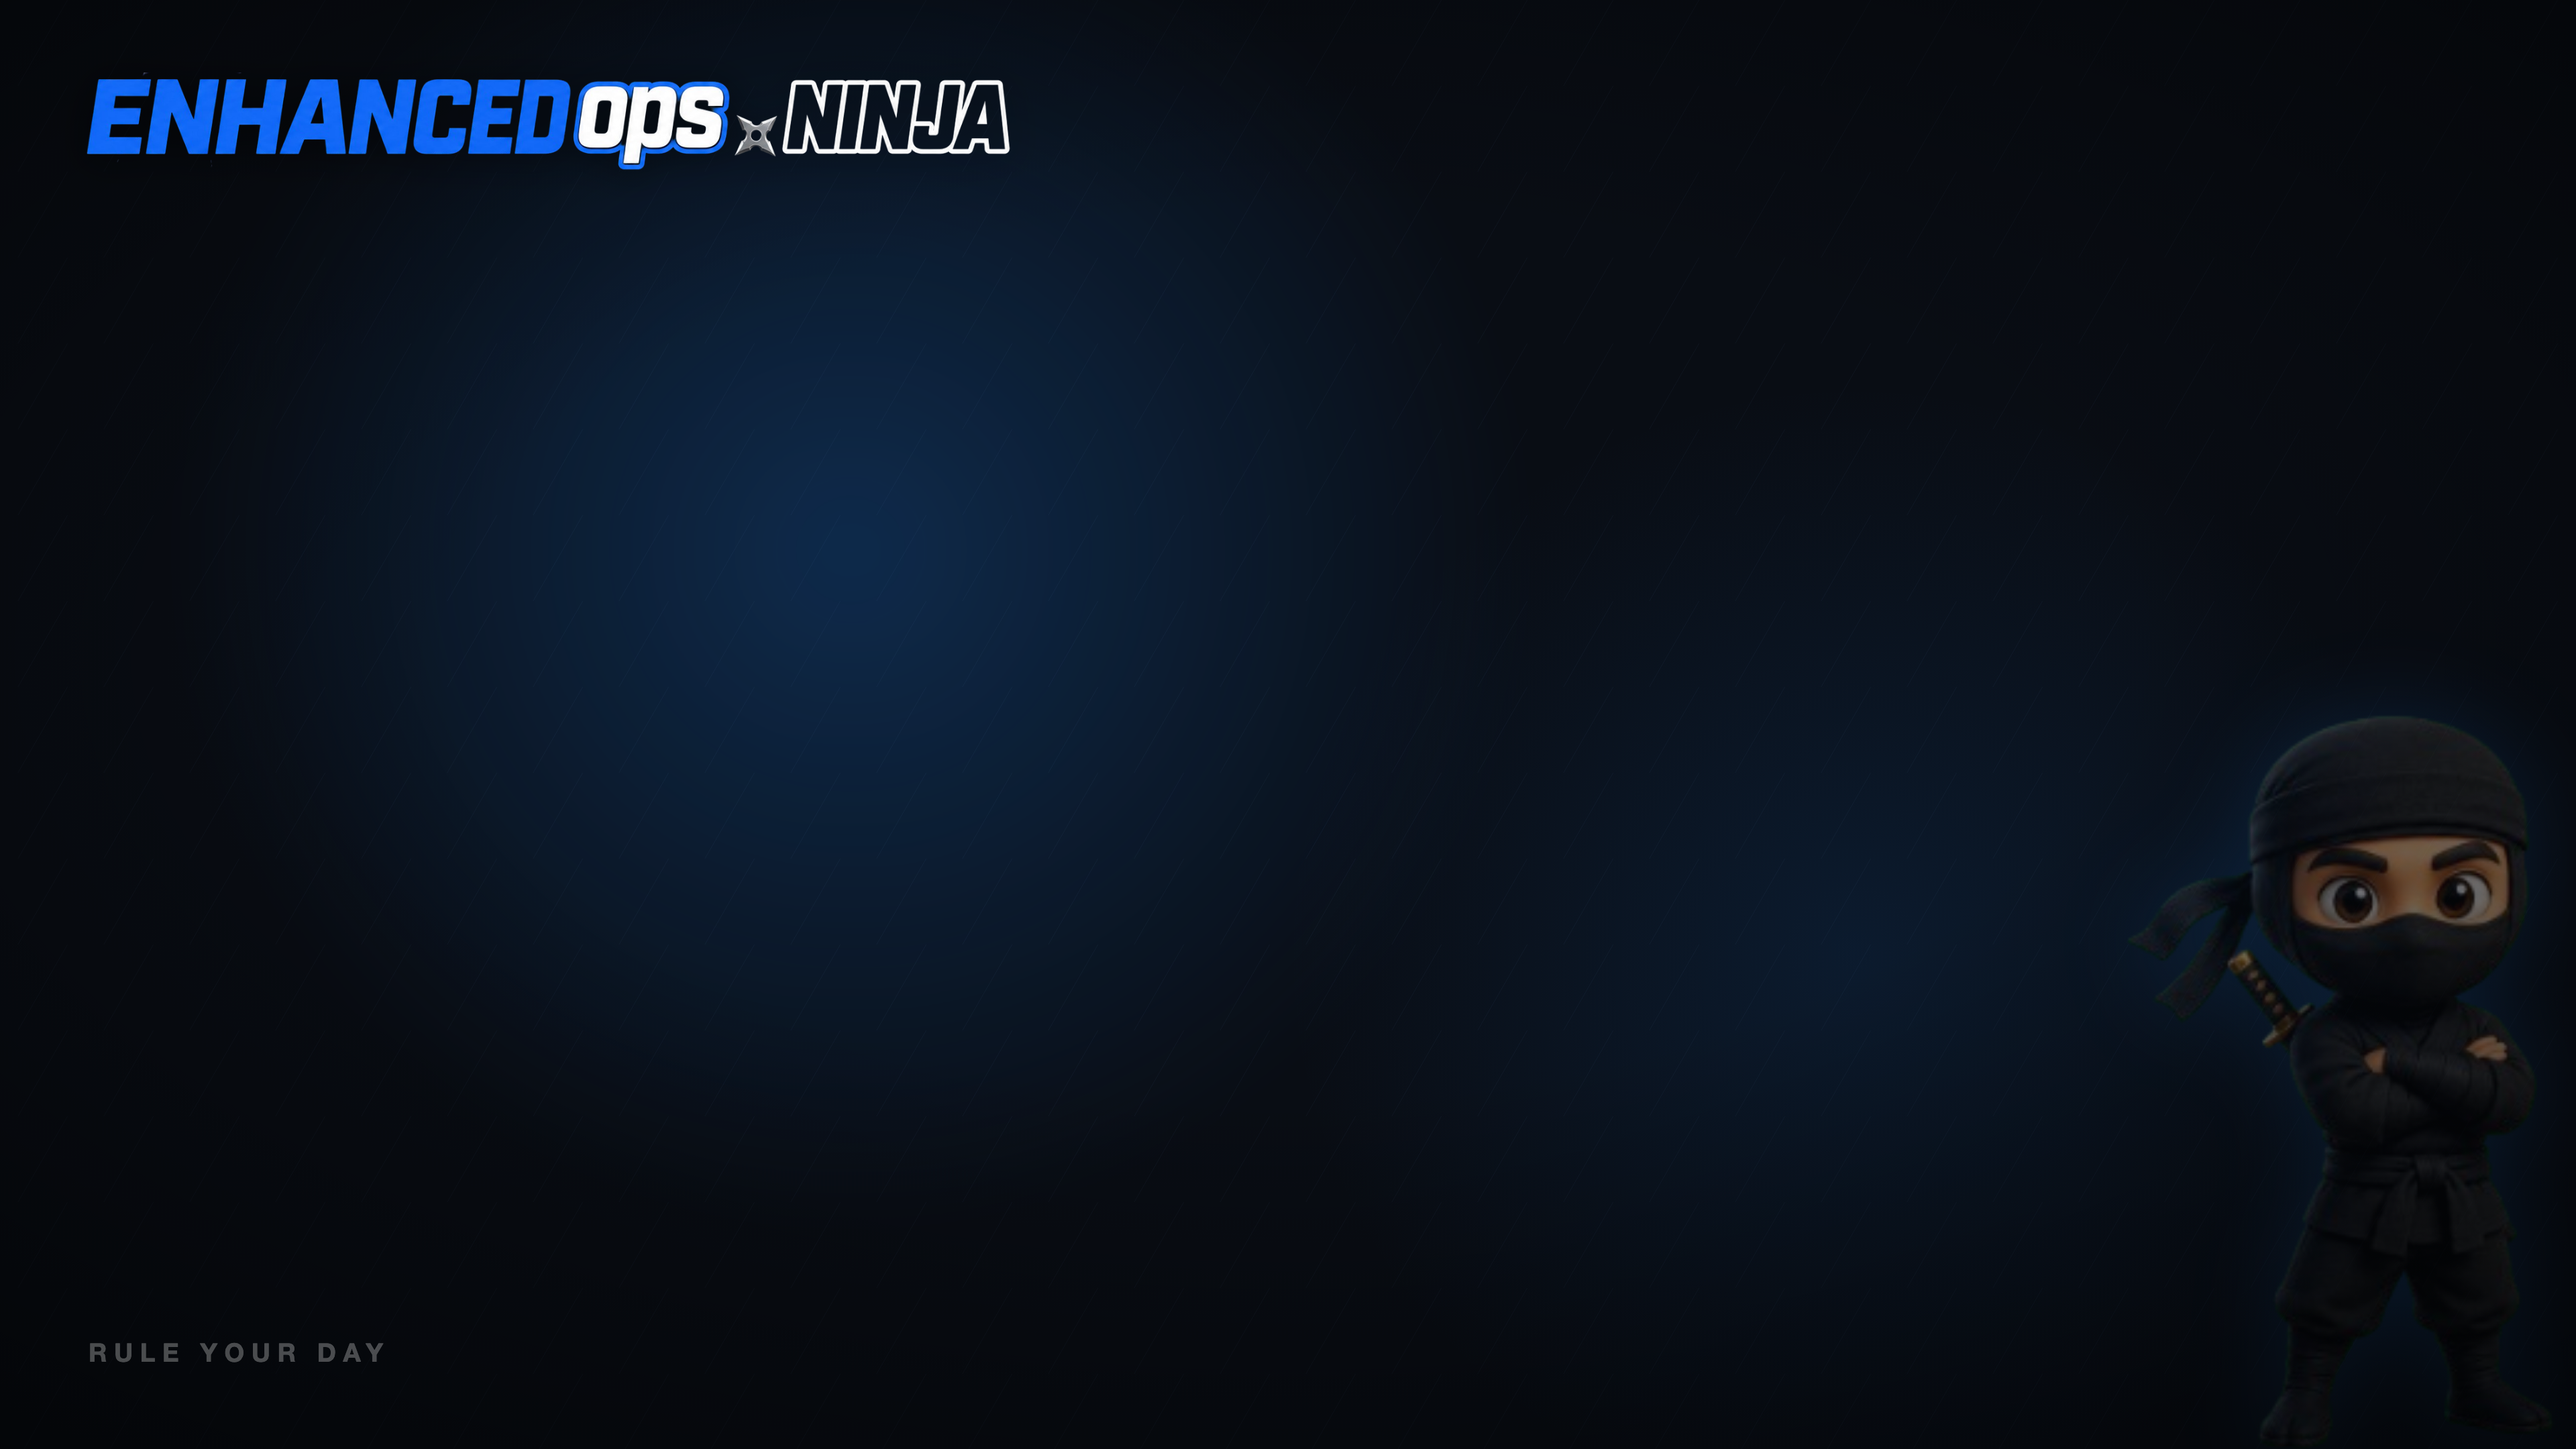
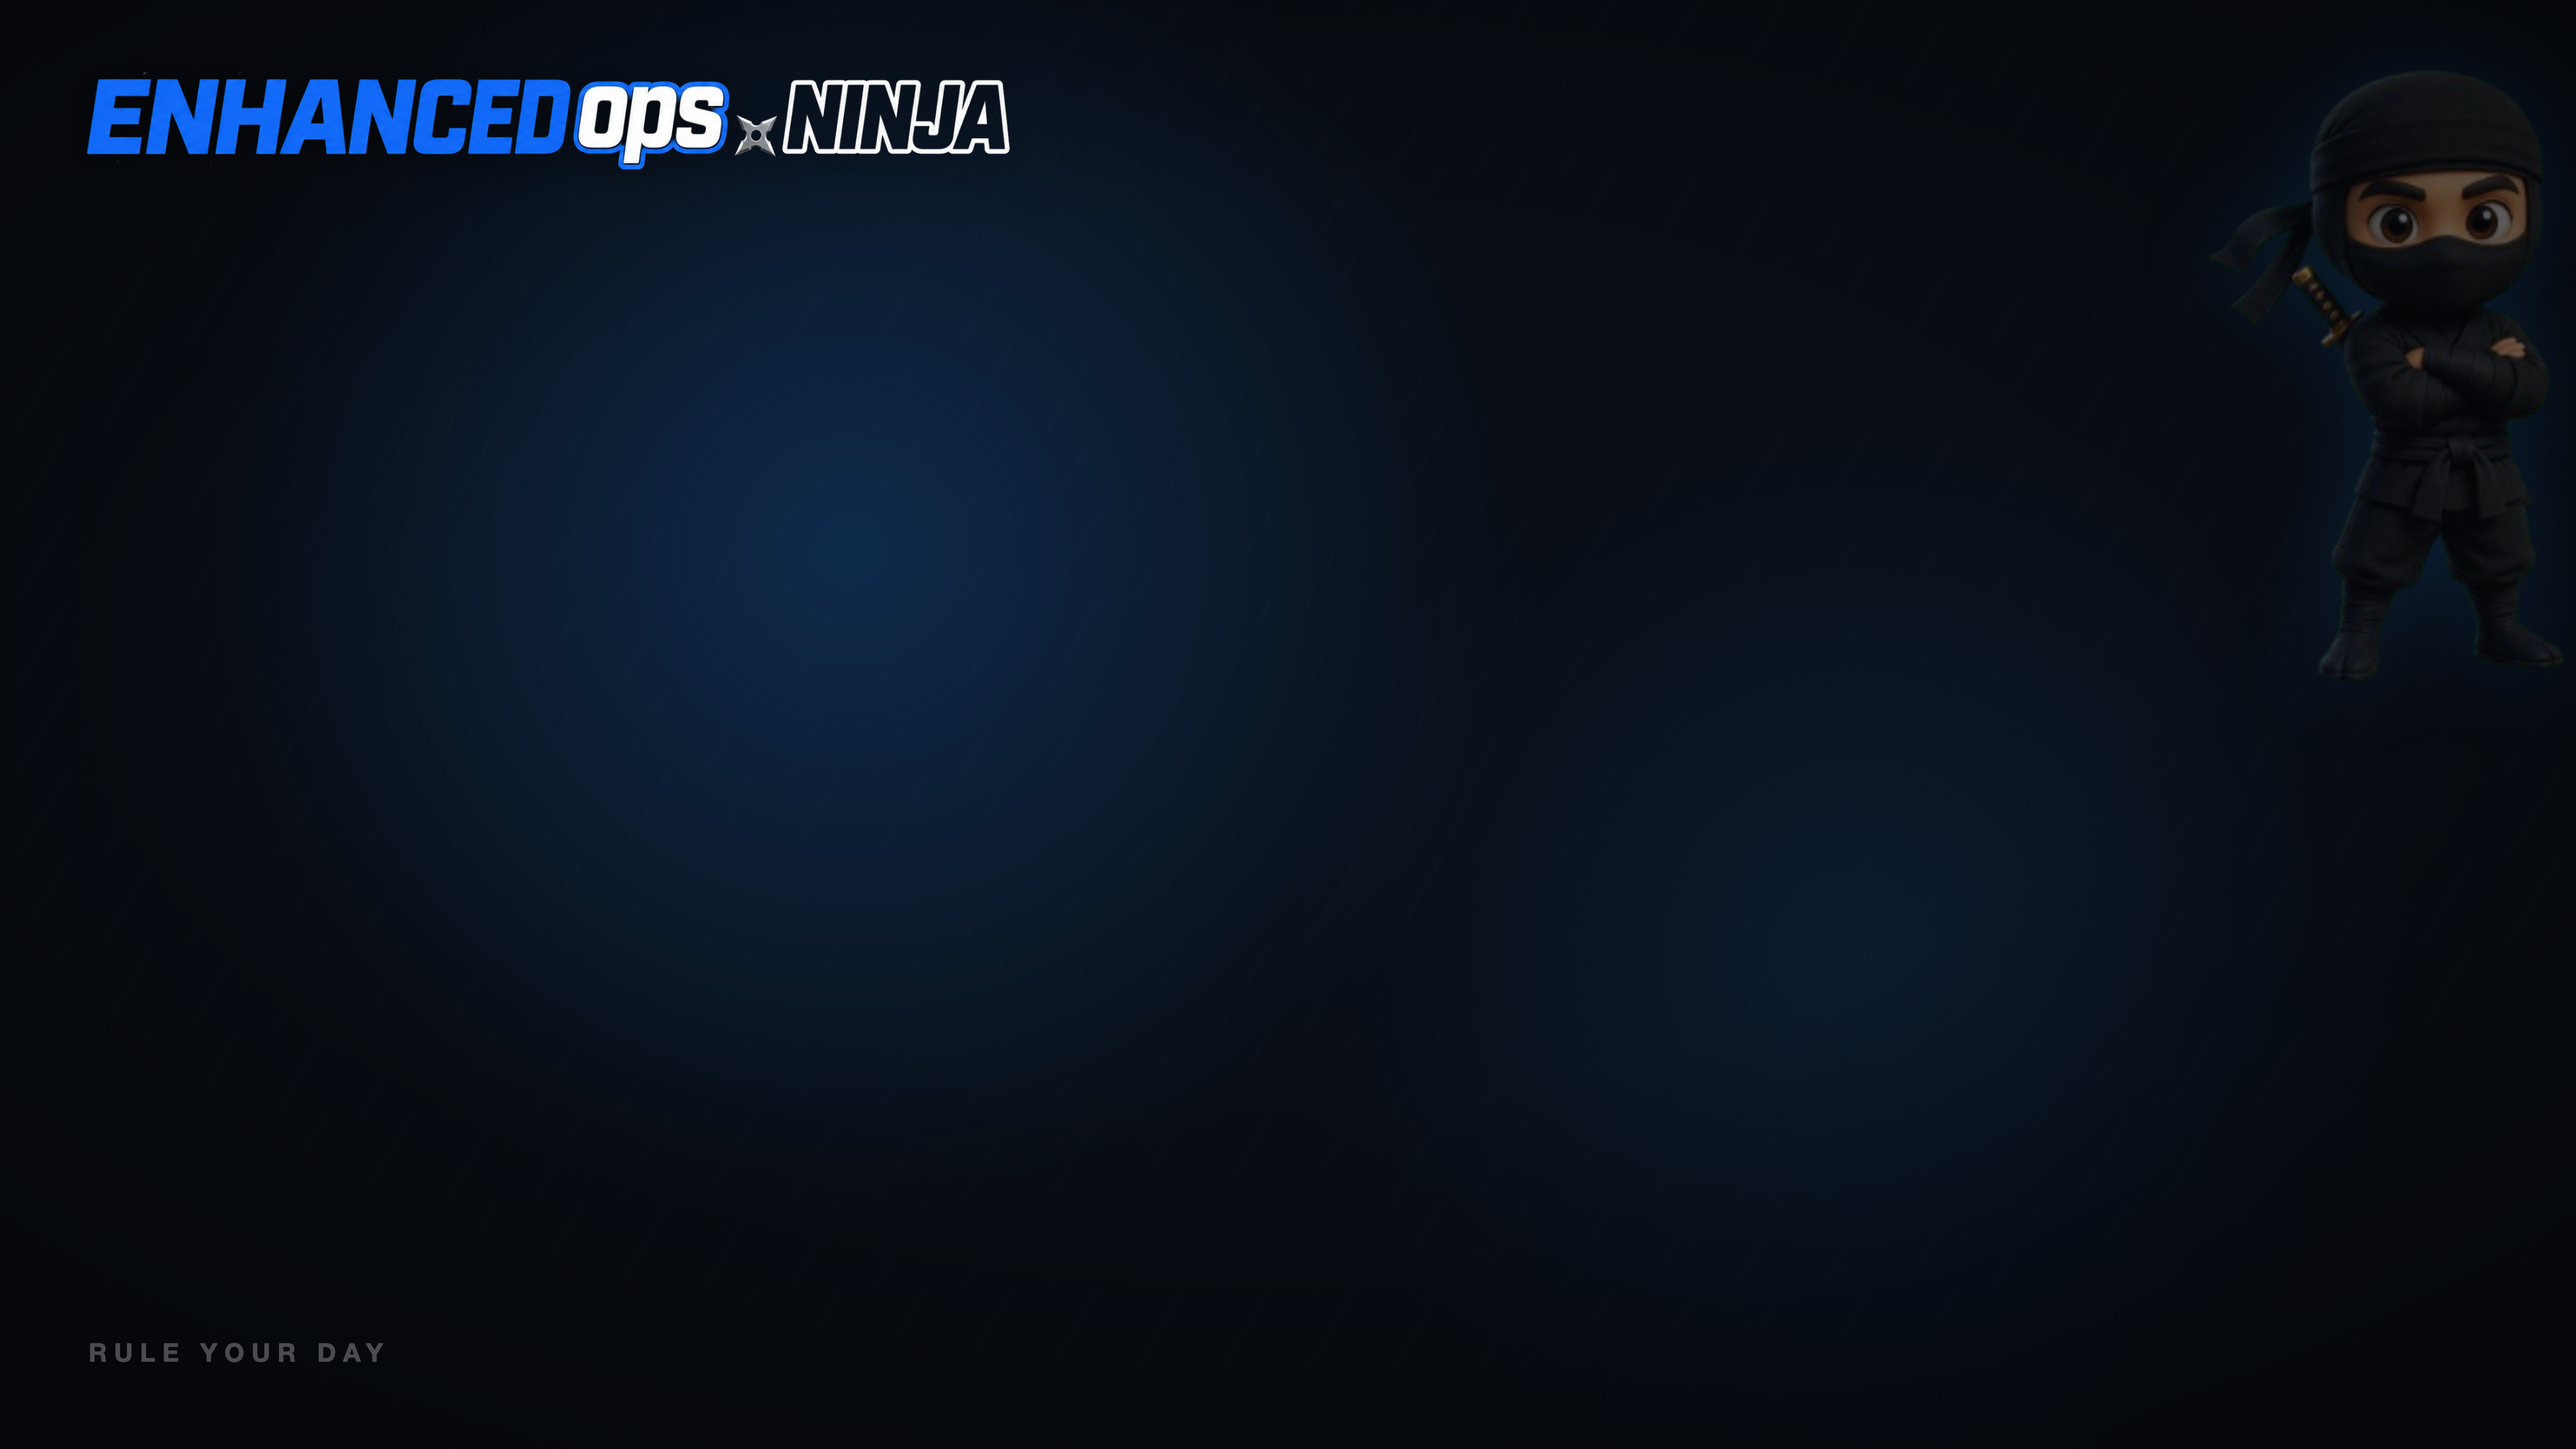
backdrop: move ninja to upper-right corner

diff --git a/scripts/render-backdrop.js b/scripts/render-backdrop.js
@@ -21,7 +21,7 @@ html,body{width:1920px;height:1080px;overflow:hidden}
   background-image:linear-gradient(120deg, transparent 0 49.5%, #7FB2F5 49.7% 50%, transparent 50.2%);
   background-size:64px 64px}
 .vig{position:absolute;inset:0;background:radial-gradient(ellipse 80% 75% at 50% 45%, rgba(0,0,0,0) 40%, rgba(0,0,0,0.62) 100%)}
-.ninja{position:absolute;right:-30px;bottom:-24px;height:600px;opacity:0.52;
+.ninja{position:absolute;right:-30px;top:28px;height:500px;opacity:0.52;
   filter:drop-shadow(0 0 34px rgba(26,110,204,0.45))}
 .logo{position:absolute;left:64px;top:54px;display:flex;align-items:center;gap:20px}
 .logo img{height:74px;filter:drop-shadow(0 3px 14px rgba(0,0,0,0.55))}
